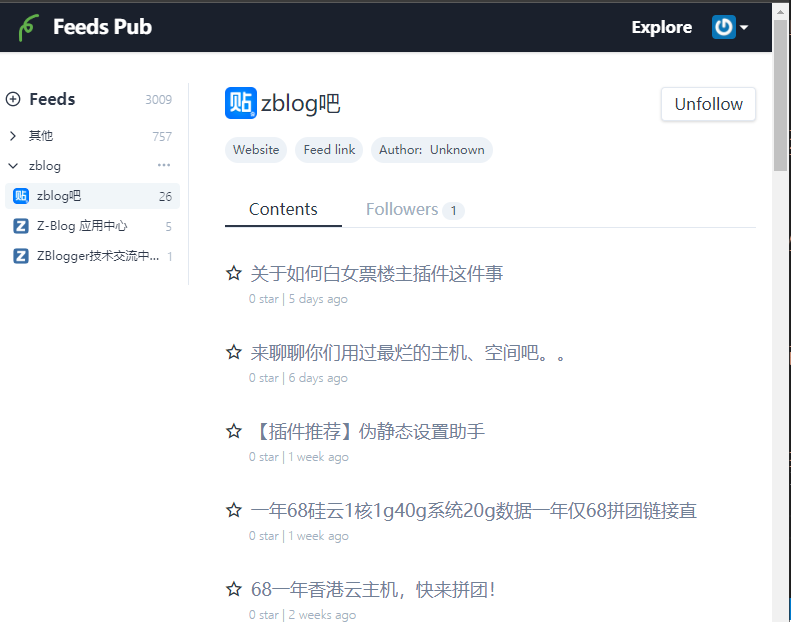
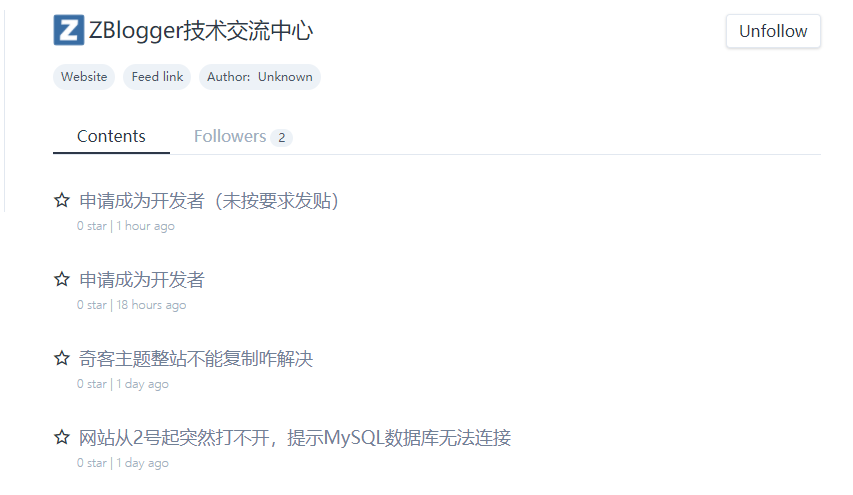
update zberOne

diff --git a/zberOne/main.php b/zberOne/main.php
@@ -20,50 +20,74 @@ require $blogpath . 'zb_system/admin/admin_top.php';
   p {
     font-size: 16px;
   }
+
   p:not(:last-child) {
     margin-bottom: .3em;
   }
+
+  blockquote {
+    padding-left: .7rem;
+    border-left: 3px solid #999;
+    margin-left: .2rem;
+  }
+
+  hr {
+    background-color: #f5f5f5;
+    border: none;
+    display: block;
+    height: 2px;
+    margin: 1.5rem 0;
+    visibility: visible;
+  }
 </style>
 <div id="divMain">
-  <div class="divHeader"><?php echo $blogtitle; ?><small><a title="刷新" href="main.php" style="font-size: 16px;display: inline-block;margin-left: 5px;">刷新</a></div>
+  <div class="divHeader">
+    <?php echo $blogtitle; ?>
+    <small><a title="刷新" href="javascript:;" onclick="location.reload();" style="font-size: 16px;display: inline-block;margin-left: 5px;">刷新</a></small>
+  </div>
   <div class="SubMenu"></small>
   </div>
   <div id="divMain2">
+    <h3> 一个QQ群</h3>
     <p>群名称：一个zblog用户群</p>
     <p>群 号：859347813</p>
-    <p>链接：<?php echo zberOne_a("https://jq.qq.com/?_wv=1027&k=Ot3DJ5Xv", "一个zblog用户群"); ?></p>
-    <p>验证：<?php echo zberOne_Check(); ?></p>
-    <p><b>↑↑请自己Debug出这个验证码为什么不会显示，这个QQ群其实不重要。</b></p>
-    <p>------</p>
-    <h3>代码的重要本质是`证明`，然而人生更主要而又无奈的组成是`认为`！！！</h3>
-    <p>
-      推荐部动画电影：颠倒的帕特玛_番剧_bilibili_哔哩哔哩
-      <a href="https://www.bilibili.com/bangumi/play/ss3668" target="_blank" title="颠倒的帕特玛：第1话_番剧_bilibili_哔哩哔哩">https://www.bilibili.com/bangumi/play/ss3668</a></p>
-    <p>-------</p>
+    <p>用 途：用于账号解封申请和开发者初审</p>
+    <p>链 接：<?php echo zberOne_a("https://jq.qq.com/?_wv=1027&k=Ot3DJ5Xv", "一个zblog用户群"); ?></p>
+    <p>验 证：<?php echo zberOne_Check(); ?></p>
+    <p><b>↑↑请自己Debug出这个验证码为什么不会显示。</b></p>
+    <hr>
     <p>
       插件地址：<?php echo zberOne_a("https://app.zblogcn.com/?id=15575", "一个zblog插件"); ?>
     </p>
+    <blockquote>
+      <h3>代码的重要本质是`证明`，然而人生更主要而又无奈的组成是`认为`！！！</h3>
+      <p>
+        推荐部动画电影：颠倒的帕特玛_番剧_bilibili_哔哩哔哩
+        <a href="https://www.bilibili.com/bangumi/play/ss3668" target="_blank" title="颠倒的帕特玛：第1话_番剧_bilibili_哔哩哔哩">https://www.bilibili.com/bangumi/play/ss3668</a>
+      </p>
+    </blockquote>
+    <hr>
+    <h3>开发者申请</h3>
+    <p>论坛发贴规范（申请开发者也先看这里）-论坛事务-ZBlogger技术交流中心</p>
+    <p><a href="https://bbs.zblogcn.com/thread-102989.html" target="_blank" title="论坛发贴规范（申请开发者也先看这里）-论坛事务-ZBlogger技术交流中心">https://bbs.zblogcn.com/thread-102989.html</a></p>
+    <h3>解封申请</h3>
     <p>
       Z-Blog相关资讯RSS订阅
       <a href="https://bbs.zblogcn.com/thread-100631.html" target="_blank" title="Z-Blog相关资讯RSS订阅">https://bbs.zblogcn.com/thread-100631.html</a> ←使用其他阅读器的可以在这里查看源地址
     </p>
-    <p><b>↓↓以下三个都需要订阅</b></p>
-    <p>
-      zblog贴吧订阅：<?php echo zberOne_a("https://feeds.pub/feed/https%3A%2F%2Frsshub.app%2Ftieba%2Fforum%2Fzblog", "zblog贴吧"); ?> ← 非产出型的贴子建议发在贴吧里
-    </p>
+    <p><b>↓↓注册并订阅，不需要手机验证；</b></p>
     <p>
       zblog论坛订阅：<?php echo zberOne_a("https://feeds.pub/feed/https%3A%2F%2Fbbs.zblogcn.com%2Findex-0.html%3Frss%3D1", "zblog论坛"); ?>
     </p>
     <p>
       应用中心订阅：<?php echo zberOne_a("https://feeds.pub/feed/https%3A%2F%2Fapp.zblogcn.com%2Ffeed.php", "应用中心"); ?>
     </p>
-    <p><b>↑↑以上三个都需要订阅</b></p>
-    <p><b>也可一键订阅这个组合包：</b></p>
     <p>zblog玩家：<a href="https://www.innoreader.com/bundle/0014cd640d60" target="_blank" title="zblog玩家">https://www.innoreader.com/bundle/0014cd640d60</a></p>
+    <p><b>↑↑注册并订阅，不需要手机验证；</b></p>
     <p>----</p>
     <p>0、大部分只是禁言而非直接踢掉的基本是因为没正确标注z-blog版权。<b>你想让人看到你的站，而我确实看到了，并用相应的行动证明我看到了，仅此而已。</b></p>
-    <p>1、[注册feeds.pub并订阅上边源]。（并不限于这个RSS阅读器，Feedly，Inoreader等都可以，手机可以用Rolly）</p>
-    <p>2、按如下格式在<a href="https://tieba.baidu.com/f?kw=zblog&ie=utf-8" target="_blank" title="zblog吧-百度贴吧">[zblog吧-百度贴吧]</a>发贴</p>
+    <p>1、[注册「feeds.pub」并订阅上边源]。（并不限于这个RSS阅读器，Feedly，Inoreader等都可以，手机可以用Rolly）</p>
+    <p>2、加QQ群附图；</p>
     <p><b>3、因擅自分享应用等原因造成的封号不予解封；</b></p>
     <p>标题：</p>
     <p>[申请解封][zblog论坛]：论坛名</p>

diff --git a/zberOne/about.php b/zberOne/about.php
@@ -1,0 +1,66 @@
+<style type="text/css">
+  #divMain .SubMenu {
+    height: auto;
+  }
+
+  i.xnxf-tip {
+    background-color: red;
+    border-radius: 7px;
+    height: 7px;
+    padding: 0;
+    position: relative;
+    right: 8px;
+    top: -3px;
+    width: 7px;
+  }
+
+  #help {
+    padding-top: 1em;
+  }
+
+  #help a {
+    background-color: inherit;
+    float: none;
+  }
+
+  hr {
+    background-color: navajowhite;
+    border: none;
+    display: block;
+    height: 1px;
+    margin: 1rem 0;
+    visibility: visible;
+  }
+</style>
+<i class="xnxf-tip" style="float: right"></i>
+<a href="javascript:;" style="float: right;" onclick="$('#help,#divMain2').slideToggle();$('.xnxf-tip').animate({opacity: 0});SetCookie('xnxf-tip', '2020-06-03', 73)" title="查看/隐藏关于"><span class="m-right">[关于]</span></a>
+<div id="help" style="display:none;clear: both">
+  <p>
+    <img src="https://img.shields.io/badge/-SEO%E6%98%AF%E5%95%A5%E8%81%94%E7%9B%9F-yellowgreen" title="SEO是啥联盟" alt="SEO是啥联盟"> <a target="_blank" title="Feed-FeedsPub" href="https://feeds.pub/feed/https%3A%2F%2Fwww.wdssmq.com%2Ffeed.php"><img src="https://img.shields.io/badge/Feed-FeedsPub-brightgreen" title="Feed-FeedsPub" alt="Feed-FeedsPub"></a> <a target="_blank" title="Feed-Inoreader" href="https://www.innoreader.com/feed/https%3A%2F%2Fwww.wdssmq.com%2Ffeed.php"><img src="https://img.shields.io/badge/Feed-Inoreader-blue" title="Feed-Inoreader" alt="Feed-Inoreader"></a> <a target="_blank" title="Feed-feed.wdssmq.com" href="https://feed.wdssmq.com"><img src="https://img.shields.io/badge/Feed-feed.wdssmq.com-yellow" title="Feed-feed.wdssmq.com" alt="Feed-feed.wdssmq.com"></a> <a target="_blank" title="QQ-349467624" href="https://wpa.qq.com/msgrd?v=3&uin=349467624&site=qq&menu=yes"><img src="https://img.shields.io/badge/QQ-349467624-0086F9" title="QQ-349467624" alt="QQ-349467624"></a> <a target="_blank" title="mastodon-wdssmq" href="https://acg.mn/invite/DXwRtTMG"><img src="https://img.shields.io/mastodon/follow/59876?domain=https%3A%2F%2Facg.mn%2F" title="mastodon-wdssmq" alt="mastodon-wdssmq"></a>
+  </p>
+  <p>QQ：349467624 <a target="_blank" href="http://wpa.qq.com/msgrd?v=3&amp;uin=349467624&amp;site=qq&amp;menu=yes" title="沉冰浮水的QQ"><img src="https://www.wdssmq.com/zb_users/logos/qq_button.png" alt="QQ" title="QQ"></a></p>
+  <p>博客：<a target="_blank" href="https://www.wdssmq.com" title="沉冰浮水">https://www.wdssmq.com</a></p>
+  <p>Feed：<a target="_blank" href="https://feed.wdssmq.com" title="Feed">https://feed.wdssmq.com</a></p>
+  <p>bilibili：<a target="_blank" href="https://space.bilibili.com/44744006" title="bilibili">https://space.bilibili.com/44744006</a></p>
+  <p>知乎：<a target="_blank" href="https://www.zhihu.com/people/wdssmq" title="知乎">https://www.zhihu.com/people/wdssmq</a></p>
+  <p>GitHub：<a target="_blank" href="https://github.com/wdssmq" title="GitHub">https://github.com/wdssmq</a></p>
+  <p>GreasyFork：<a target="_blank" href="https://greasyfork.org/zh-CN/users/6865-wdssmq" title="GreasyFork">https://greasyfork.org/zh-CN/users/6865-wdssmq</a></p>
+  <hr>
+  <p>爱发电：<a target="_blank" href="https://afdian.net/@wdssmq" title="爱发电">https://afdian.net/@wdssmq</a></p>
+  <p>[AD：<a title="老薛主机" target="_blank" href="https://my.laoxuehost.net/aff.php?aff=294">PHP美国空间</a> 优惠码：15off-xnxf ]</p>
+  <p>[AD：<a title="主机云" target="_blank" href="https://my.hostyun.com/page.aspx?c=referral&u=8680">vps-主机云</a>]</p>
+  <p>[AD：<a title="Vultr" target="_blank" href="https://www.vultr.com/?ref=7663955">vps-Vultr</a>]</p>
+  <hr>
+  <p>一款基于QueryList V4的Z-Blog采集插件：<a href="https://github.com/wdssmq/kumo-for-zblog" target="_blank" title="wdssmq/kumo-for-zblog: 一款基于QueryList V4的Z-Blog采集插件">https://github.com/wdssmq/kumo-for-zblog</a></p>
+  <p>某理念崩坏的采集插件 - Z-Blog 应用中心</p>
+  <p><a href="https://app.zblogcn.com/?id=17788" target="_blank" title="某理念崩坏的采集插件 - Z-Blog 应用中心">https://app.zblogcn.com/?id=17788</a></p>
+  <div style="min-height: 59px;"></div>
+</div>
+<div style="clear: both"></div>
+<script type="text/javascript">
+  if (GetCookie("xnxf-tip") == '2020-06-03') {
+    $('.xnxf-tip').css({
+      opacity: 0
+    });
+  }
+</script>

diff --git a/zberOne/include.php b/zberOne/include.php
@@ -81,7 +81,7 @@ function zberOne_Http()
   if ($http->status == 200) {
     $s = $http->responseText;
     if ($data = json_decode($s)) {
-      $int = intval($data->watchers / 11);
+      $int = 100 + intval($data->watchers / 37);
       return $int;
     }
   }
